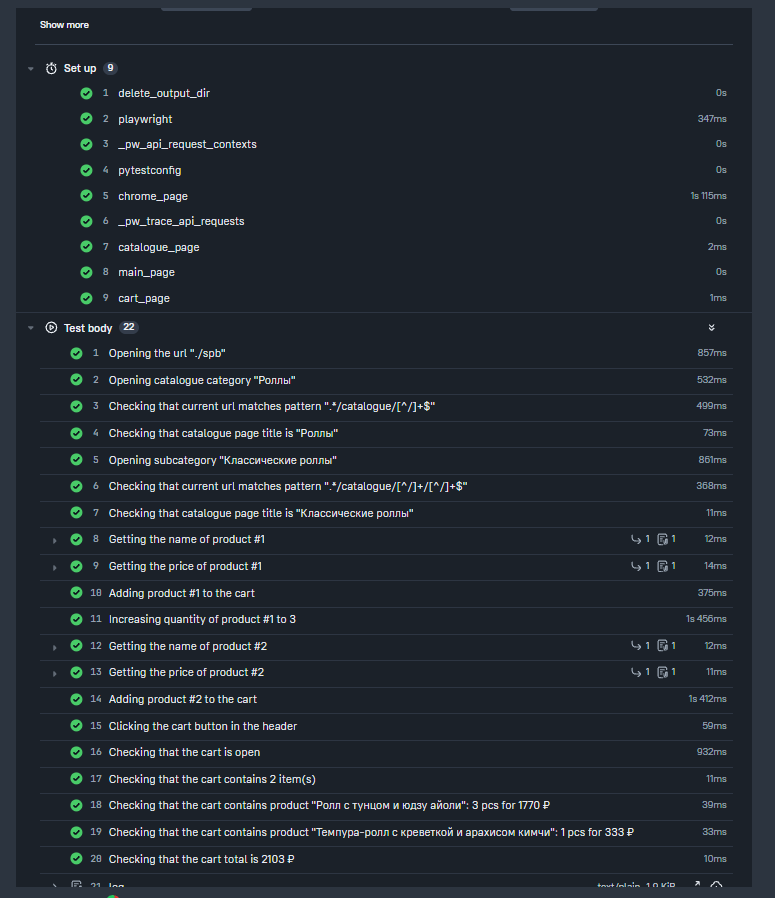
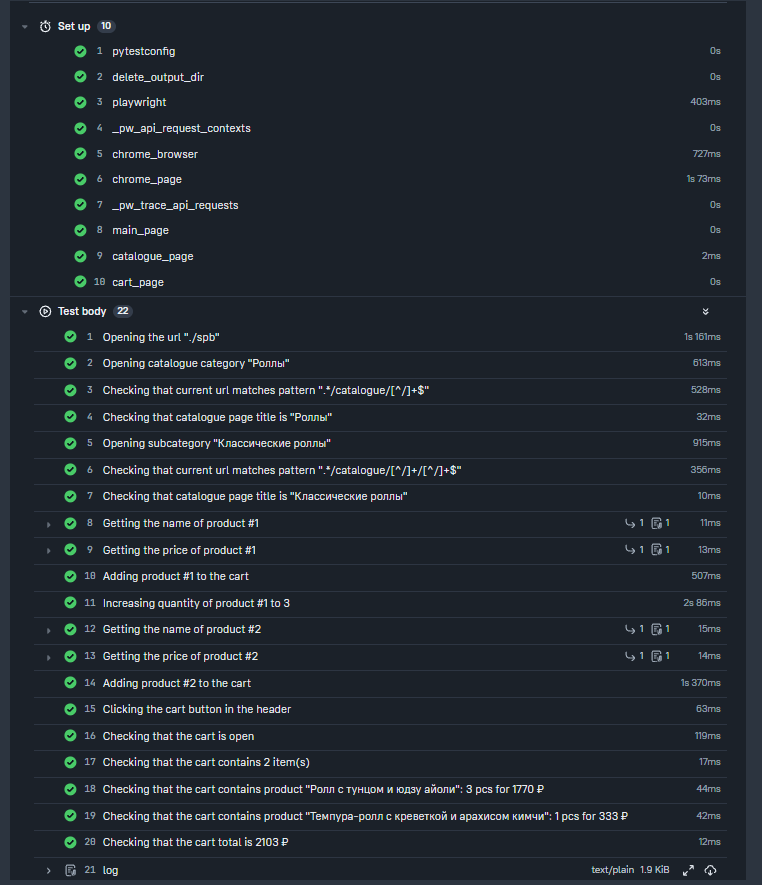
Fix: разделение браузер и клиента

diff --git a/tools/playwright/pages.py b/tools/playwright/pages.py
@@ -1,16 +1,23 @@
 from typing import Generator
 
 import allure
-from playwright.sync_api import Playwright, Page
+from playwright.sync_api import Playwright, Browser, Page
 
 from config import settings
 
 
-def initialize_playwright_page(playwright: Playwright, test_name: str) -> Page:
+def initialize_playwright_browser(playwright: Playwright) -> Browser:
     browser = playwright.chromium.launch(
         channel=settings.browser,
         headless=settings.headless,
     )
+
+    yield browser
+
+    browser.close()
+
+
+def initialize_playwright_page(browser: Browser, test_name: str) -> Page:
     context = browser.new_context(
         base_url=settings.get_base_url(),
         viewport={"width": 1920, "height": 1080},
@@ -25,7 +32,6 @@ def initialize_playwright_page(playwright: Playwright, test_name: str) -> Page:
     tracing_file = settings.tracing_dir.joinpath(f"{test_name}.zip")
     context.tracing.stop(path=tracing_file)
     context.close()
-    browser.close()
 
     allure.attach.file(tracing_file, name="trace", extension="zip")
     allure.attach.file(page.video.path(), name="video", attachment_type=allure.attachment_type.WEBM)

diff --git a/fixtures/browsers.py b/fixtures/browsers.py
@@ -2,15 +2,21 @@ from typing import Generator
 
 import pytest
 from _pytest.fixtures import SubRequest
-from playwright.sync_api import Playwright, Page
+from playwright.sync_api import Playwright, Browser, Page
 
 from config import settings
-from tools.playwright.pages import initialize_playwright_page
+from tools.playwright.pages import initialize_playwright_browser, initialize_playwright_page
+
+#браузер
+@pytest.fixture(scope="session")
+def chrome_browser(playwright: Playwright) -> Browser:
+    yield from initialize_playwright_browser(playwright)
 
 
+#клиент
 @pytest.fixture
-def chrome_page(request: SubRequest, playwright: Playwright) -> Page:
+def chrome_page(request: SubRequest, chrome_browser: Browser) -> Page:
     yield from initialize_playwright_page(
-        playwright,
+        chrome_browser,
         test_name=request.node.name
     )
